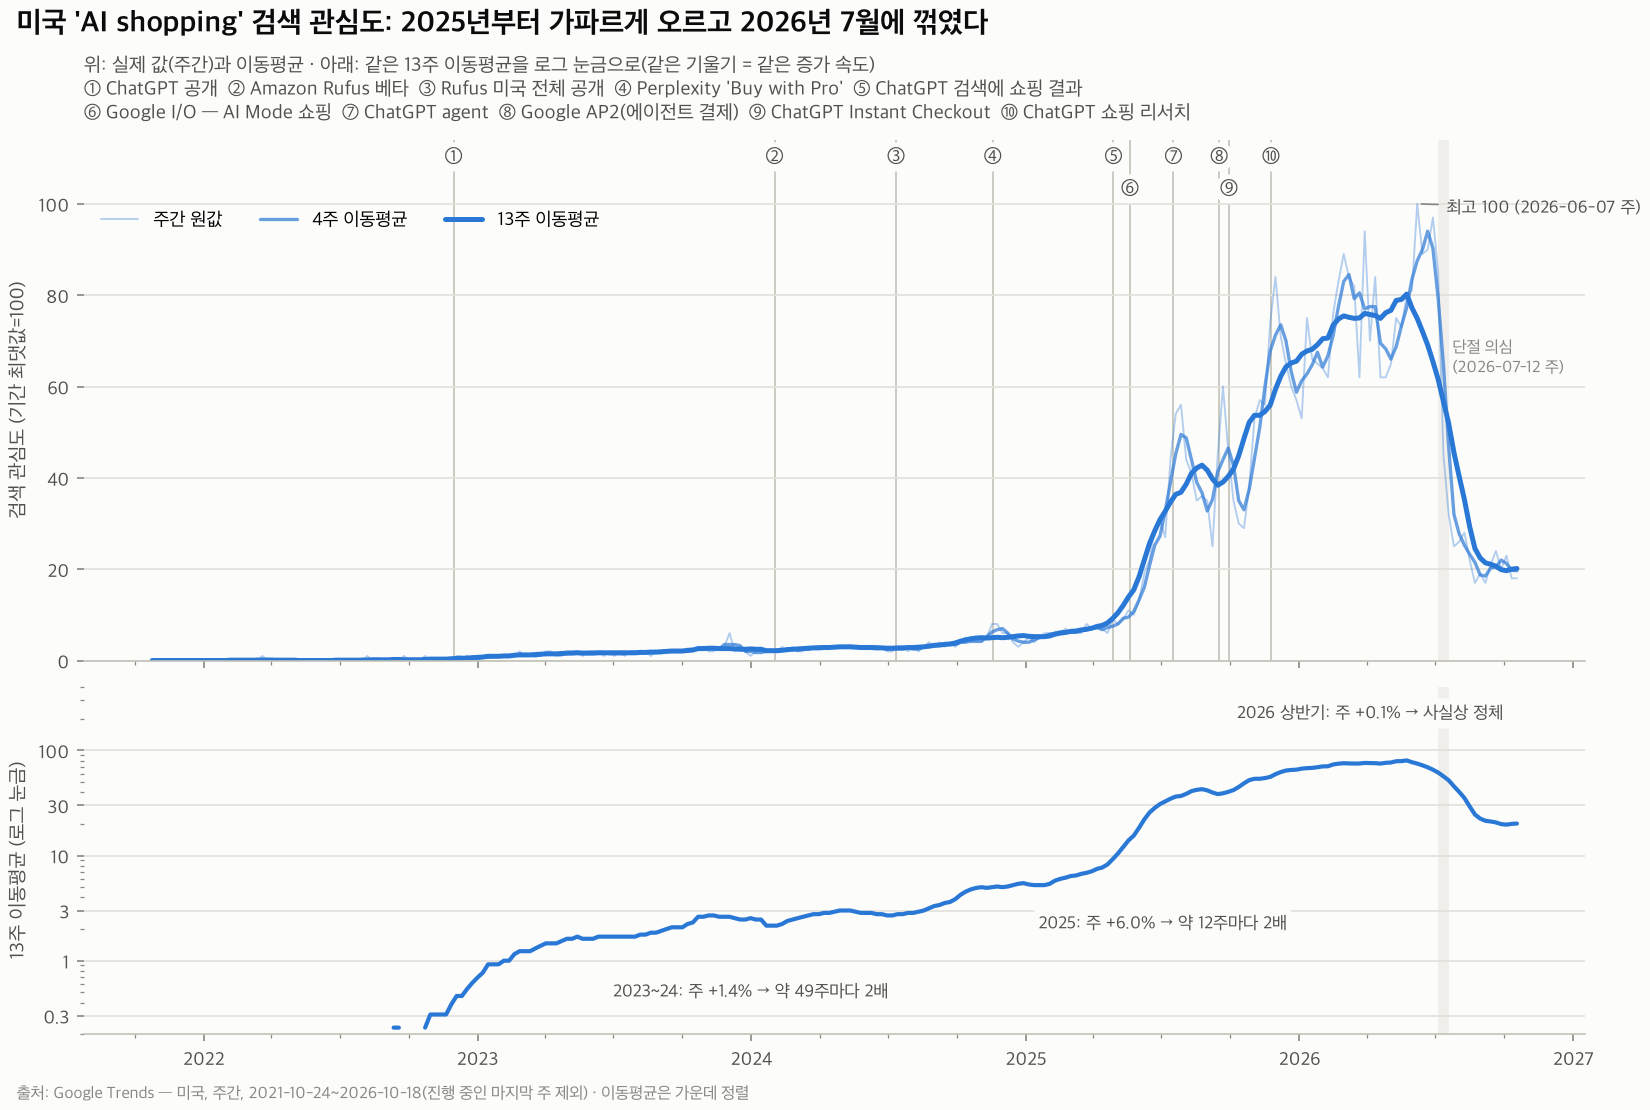
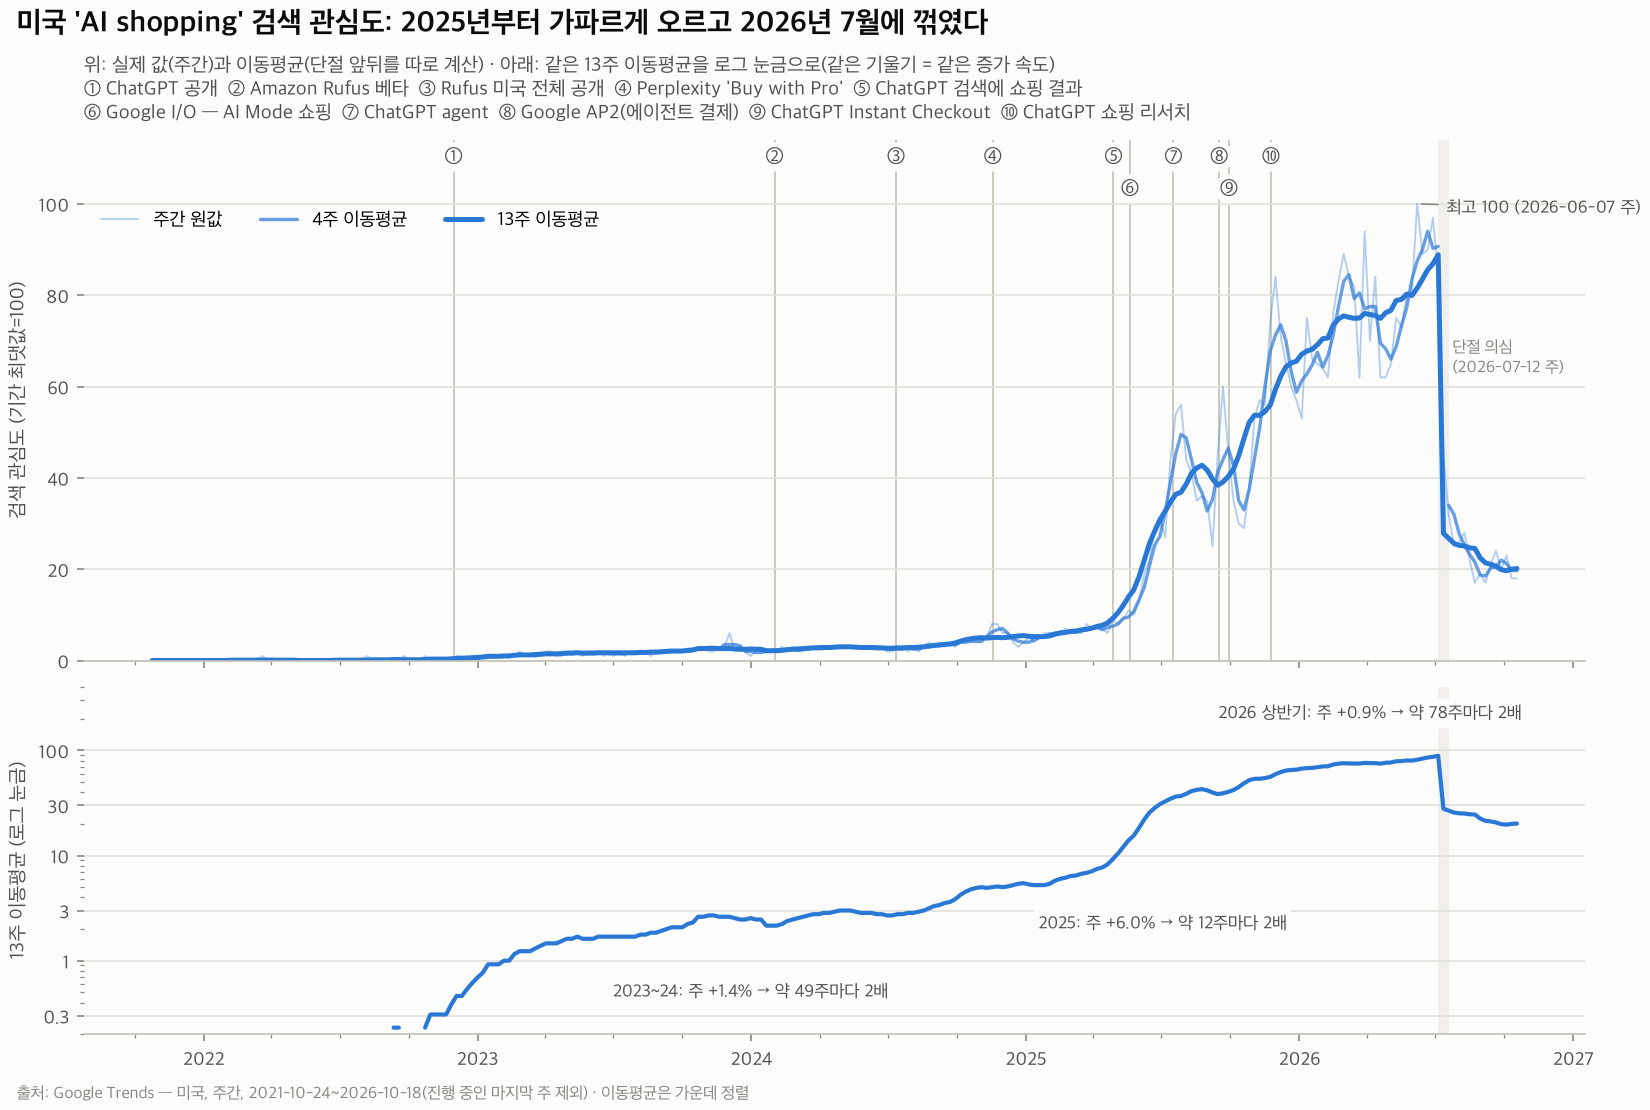
AI_final/mission1: 이동평균을 구조 단절 앞뒤 구간별로 계산 — 2026 상반기 '정체(주 +0.1%)'는 단절 후 값이 섞인 착시, '둔화(주 +0.9%)'로 정정, 그림 1·4·7·REPORT·문서 갱신

diff --git a/AI_final/mission1/analysis.py b/AI_final/mission1/analysis.py
@@ -140,6 +140,12 @@ def end_label(ax, x, y, text, dy=0):
                 color=INK["secondary"], va="center")
 
 
+def rolling_by_segment(x, window, **kw):
+    """이동평균이 구조 단절(2026-07-12 주)을 넘지 않게 앞뒤 구간을 따로 계산한다.
+    가운데 정렬 창이 단절을 넘으면 단절 전 몇 주에 단절 후의 낮은 값이 섞여 추세가 왜곡된다."""
+    return pd.concat([part.rolling(window, **kw).mean() for part in (x[:PRE_LAST], x[BREAK_WEEK:])])
+
+
 def event_key(events, per_line=5):
     items = [f"{CIRCLED[i]} {name}" for i, (_, name) in enumerate(events)]
     return "\n".join("  ".join(items[i:i + per_line]) for i in range(0, len(items), per_line))
@@ -196,8 +202,8 @@ def load_all():
 def build_features(us: pd.DataFrame) -> pd.DataFrame:
     s = us[MAIN]
     f = pd.DataFrame({MAIN: s})
-    f["ma4"] = s.rolling(4, center=True, min_periods=3).mean()     # 한 달 흐름(가운데 정렬)
-    f["ma13"] = s.rolling(13, center=True, min_periods=7).mean()   # 한 분기 흐름(가운데 정렬)
+    f["ma4"] = rolling_by_segment(s, 4, center=True, min_periods=3)     # 한 달 흐름(가운데 정렬)
+    f["ma13"] = rolling_by_segment(s, 13, center=True, min_periods=7)   # 한 분기 흐름(가운데 정렬)
     prev = s.shift(1)
     # 0 은 '검색량이 임계값 미만' 이라 변화율의 분모로 쓰지 않는다(분모 5 이상만 계산).
     f["wow_pct"] = np.where(prev >= 5, (s / prev - 1) * 100, np.nan)
@@ -260,7 +266,7 @@ def black_friday_table(series: dict) -> pd.DataFrame:
 
 
 def takeoff(s: pd.Series, level: float):
-    ma = s.rolling(4, center=True, min_periods=3).mean()   # 그림 07 과 같은 이동평균
+    ma = rolling_by_segment(s, 4, center=True, min_periods=3)   # 그림 07 과 같은 이동평균
     hit = ma[ma >= level]
     return hit.index[0] if len(hit) else None
 
@@ -344,7 +350,7 @@ def fig01_trend(f, numbers):
                  bbox=dict(boxstyle="round,pad=0.25", fc=INK["surface"], ec="none"))
     date_axis(ax2)
     finish(fig, ax1, "미국 'AI shopping' 검색 관심도: 2025년부터 가파르게 오르고 2026년 7월에 꺾였다",
-           "위: 실제 값(주간)과 이동평균 · 아래: 같은 13주 이동평균을 로그 눈금으로(같은 기울기 = 같은 증가 속도)\n" + event_key(EVENTS_US),
+           "위: 실제 값(주간)과 이동평균(단절 앞뒤를 따로 계산) · 아래: 같은 13주 이동평균을 로그 눈금으로(같은 기울기 = 같은 증가 속도)\n" + event_key(EVENTS_US),
            "출처: Google Trends — 미국, 주간, 2021-10-24~2026-10-18(진행 중인 마지막 주 제외) · 이동평균은 가운데 정렬",
            "01_trend_moving_average.png")
 
@@ -414,7 +420,7 @@ def fig03_spikes(f, us):
 
 def fig04_keywords(us):
     cols = list(us.columns)
-    ma = us.rolling(4, center=True, min_periods=3).mean()["2023-01-01":]
+    ma = rolling_by_segment(us, 4, center=True, min_periods=3)["2023-01-01":]
     fig, (ax1, ax2) = new_fig(2, 1, height=7.4, gridspec_kw={"height_ratios": [3, 2]})
     for i, c in enumerate(cols):
         ax1.plot(ma.index, ma[c], color=SERIES[i], lw=2.2 if c == MAIN else 1.6, label=c)
@@ -539,8 +545,8 @@ def fig06_daily(daily, numbers):
 
 
 def fig07_us_kr(us, kr, numbers):
-    a = us[MAIN].rolling(4, center=True, min_periods=3).mean()["2024-01-01":]
-    b = kr[KR].rolling(4, center=True, min_periods=3).mean()["2024-01-01":]
+    a = rolling_by_segment(us[MAIN], 4, center=True, min_periods=3)["2024-01-01":]
+    b = rolling_by_segment(kr[KR], 4, center=True, min_periods=3)["2024-01-01":]
     fig, ax = new_fig(1, 1, height=5.4)
     ax.plot(a.index, a, color=SERIES[0], lw=2.2, label="미국 'AI shopping'")
     ax.plot(b.index, b, color=SERIES[1], lw=2.2, label="한국 'AI 쇼핑'")

diff --git a/AI_final/mission1/REPORT.md b/AI_final/mission1/REPORT.md
@@ -1,7 +1,7 @@
 # AI 쇼핑 관심도 시계열 분석 리포트 — Google Trends 2021-10 ~ 2026-10
 
 > **요약**
-> - 미국 'AI shopping' 검색 관심은 2023~24년 주 +1.4%로 천천히 늘다가, 2025년에 주 +6.0%(약 12주마다 2배)로 급증했다. 2026년 상반기에는 증가가 멈췄다(주 +0.1%).
+> - 미국 'AI shopping' 검색 관심은 2023~24년 주 +1.4%로 천천히 늘다가, 2025년에 주 +6.0%(약 12주마다 2배)로 급증했다. 2026년 상반기에는 증가 속도가 주 +0.9%로 크게 느려졌다.
 > - 급등한 주는 AI 쇼핑 기능 발표 직후(ChatGPT agent, ChatGPT 쇼핑 리서치 등)와 블랙프라이데이 주에 몰려 있다. 블랙프라이데이 주에는 직전 4주 평균의 1.2~1.5배가 되는데, 일반 온라인 쇼핑과 비슷한 크기다.
 > - 2026-07-12 주에 −74% 급락했다. 하지만 대형 검색어와 독립 측정(위키백과 조회수)에는 같은 하락이 없어서, 실제 관심 감소보다 측정 쪽 변화일 가능성이 크다고 판단했다.
 > - 한국 'AI 쇼핑'은 미국보다 약 20주 늦게 올라섰고, 국내 플랫폼의 AI 쇼핑 기능 출시 시점에 맞춰 움직였다.
@@ -90,7 +90,7 @@
 | 대상 | 기준 | 처리 |
 |---|---|---|
 | 급등 주 | 직전 8주 중앙값 대비 로그 비율의 로버스트 z 점수(중앙값·MAD 기준) ≥ 2.5이고 값 ≥ 5 | **삭제하지 않고 표시**(10주). 급등은 분석 대상인 '사건'이다. 추세는 이동평균으로 노이즈를 걸러 본다 |
-| 구조 단절(2026-07-12 주, AI 관련 검색어가 한꺼번에 반토막) | 이상치 한 점이 아니라 수준 자체가 이동한 것 | **보정·삭제하지 않고 구간을 나눔**. 추세·분해·예측 검증은 2026-07-05 주까지만 쓴다. 급락 전후 비교에서는 전환 주를 뺀다. 원인 검증은 Q4에서 한다 |
+| 구조 단절(2026-07-12 주, AI 관련 검색어가 한꺼번에 반토막) | 이상치 한 점이 아니라 수준 자체가 이동한 것 | **보정·삭제하지 않고 구간을 나눔**. 추세·분해·예측 검증은 2026-07-05 주까지만 쓰고, 이동평균도 단절을 넘지 않게 앞뒤를 따로 계산한다. 급락 전후 비교에서는 전환 주를 뺀다. 원인 검증은 Q4에서 한다 |
 
 ### 4-4. 집계 단위 · 스케일 선택 근거
 
@@ -104,7 +104,7 @@
 
 | 기법 | 어떻게 | 왜 | 그림·표 |
 |---|---|---|---|
-| 이동평균 | 4주·13주, 가운데 정렬(그림), 직전 N주 후행 평균(대시보드) | 주간 노이즈를 걸러 추세를 보기 위해 | 그림 1 · 4 · 7 |
+| 이동평균 | 4주·13주, 가운데 정렬·단절 앞뒤 구간별(그림), 직전 N주 후행 평균(대시보드) | 주간 노이즈를 걸러 추세를 보기 위해 | 그림 1 · 4 · 7 |
 | 성장 속도(로그 기울기) | 13주 이동평균의 로그에 직선을 맞춰 주간 증가율과 '2배 걸리는 주 수' 계산 | 수준이 크게 다른 시기의 '빠르기'를 비교하기 위해 | 그림 1 |
 | 변화율 | 전주 대비 · 전분기 대비 · 1년 전 같은 구간 대비 | 급등 탐지, 성장률, 계절 기준선 확인 | 그림 2 · 3 · 표 |
 | 구간별 통계 | 5개 구간의 평균·표준편차·변동계수 / 사건 전후 4주 평균 비교 / 블랙프라이데이 주 배수 | 시기별 수준과 사건 효과를 숫자로 비교하기 위해 | 표 6-2 · 6-3 |
@@ -124,11 +124,11 @@
 
 - **관찰**
   - 연평균 'AI shopping' 값은 2022년 0.13, 2023년 1.77, 2024년 3.33, 2025년 29.15, 2026년 1~7월 초 76.6이다. 2024년 → 2025년이 8.8배로 가장 크게 늘었다.
-  - 13주 이동평균의 주간 증가율은 2023~24년 +1.4%(약 49주마다 2배), 2025년 +6.0%(약 12주마다 2배), 2026년 상반기 +0.1%(정체)다.
+  - 13주 이동평균의 주간 증가율은 2023~24년 +1.4%(약 49주마다 2배), 2025년 +6.0%(약 12주마다 2배), 2026년 상반기 +0.9%(약 78주마다 2배)다.
   - 최고점은 2026-06-07 주(100)다. 2026-07-12 주부터 급락했고, 급락 후 14주 평균은 22.1이다.
 - **해석(가설)**
   - 2025년은 '알게 되는' 단계의 폭발적 확산기로 보인다.
-  - 2026년 상반기는 새로 알아보는 사람이 줄어든 포화 단계일 수 있다.
+  - 2026년 상반기는 증가 속도가 2025년의 약 1/6로 줄었다. 새로 알아보는 사람이 줄어 포화에 가까워지는 단계일 수 있다.
 
 ### 그림 2. 분기 평균과 변동성 (Q1)
 
@@ -250,20 +250,20 @@
 
 ## 7. 인사이트
 
-### 인사이트 1. 관심은 2025년에 폭발했고, 2026년 상반기에 정체됐다
+### 인사이트 1. 관심은 2025년에 폭발했고, 2026년 상반기에 둔화됐다
 
 - **관찰(Fact)**
   - 연평균은 2024년 3.3, 2025년 29.2(×8.8), 2026년 1~7월 초 76.6(×2.6)이다.
-  - 주간 증가율은 2023~24년 +1.4%, 2025년 +6.0%, 2026년 상반기 +0.1%다.
+  - 주간 증가율은 2023~24년 +1.4%, 2025년 +6.0%, 2026년 상반기 +0.9%다.
   - 전분기 대비 증가율은 2025 Q3 +203%로 정점을 찍은 뒤 2026 Q2 +8%까지 줄었다(그림 1·2).
 - **원인(Why, 가설)**
   - 표에 정리한 사건 10건 중 6건(⑤~⑩)이 2025-04 ~ 2025-11에 몰려 있다. '처음 들어본 사람'의 검색이 한꺼번에 늘었다는 설명이 자연스럽다.
-  - 2026년 상반기 정체에는 두 가지 가능성이 있다.
+  - 2026년 상반기 둔화에는 두 가지 가능성이 있다.
     - (a) 인지가 퍼질 만큼 퍼져 새로 알아보는 검색이 줄었다(포화).
     - (b) 관심이 일반어 대신 서비스 이름이나 AI 앱 안으로 옮겨 갔다(이동).
   - 같은 기간 'agentic commerce'는 계속 올랐다(2026년 1~7월 초 평균 15.1). '관심 전체가 식었다'는 설명과는 맞지 않는다.
 - **행동(Action)**
-  - 성장 단계는 수준보다 **증가 속도(로그 기울기)**로 판단한다. 수준은 높아도 속도가 0이면 확산기가 끝난 것이다.
+  - 성장 단계는 수준보다 **증가 속도(로그 기울기)**로 판단한다. 수준이 높아도 속도가 크게 떨어지면 확산기가 끝나 가는 신호다.
   - 포화인지 이동인지 가리려면 서비스 이름 검색어와 앱 사용 지표를 같은 기간으로 맞춰 다시 본다.
 
 ### 인사이트 2. 급등은 '범용 AI의 쇼핑 기능 발표 직후'와 '블랙프라이데이'에 온다
@@ -414,7 +414,7 @@
 
 ### 결론
 
-- **Q1(언제·얼마나)**: 2023~24년에 천천히 늘다가 2025년에 약 12주마다 2배씩 폭발했고, 2026년 상반기에 정체됐다. 연평균은 2024년 3.3에서 2026년 1~7월 초 76.6까지 올랐다.
+- **Q1(언제·얼마나)**: 2023~24년에 천천히 늘다가 2025년에 약 12주마다 2배씩 폭발했고, 2026년 상반기에는 약 78주마다 2배 속도로 둔화됐다. 연평균은 2024년 3.3에서 2026년 1~7월 초 76.6까지 올랐다.
 - **Q2(급등 계기)**: 범용 AI의 쇼핑 기능 발표 직후 4주에 +37~+82% 올랐고, 블랙프라이데이 주에는 ×1.2~1.5였다. 앱 안 기능 발표는 검색을 거의 움직이지 않았다.
 - **Q3(관심의 내용)**: 일반어가 중심인 가운데 'agentic commerce'(대신 사 주는 AI) 비중이 0.7%에서 16.4%로 커졌다.
 - **Q4(7월 급락)**: AI·소량 검색어에만 있었고, 대형 검색어와 위키백과 조회수에는 없었다. 관심 감소보다 측정 변화일 가능성이 크지만 원인은 확정하지 못했다.
@@ -449,6 +449,7 @@
 
 - 급락 그림의 첫 제목은 "AI 관련 검색어에만 급락"이었다. 대조군 표에서 비AI 소량 검색어도 −23~−77% 떨어진 것을 확인하고 "AI·쇼핑 소량 검색어에 몰려 있다"로 고쳤다.
 - 예측 그림의 단절 구간에 '가장 나은 방법 = 계절 naive'로 표시돼 있었다. 작년 수준과 우연히 비슷해서 생긴 결과임을 확인하고 그렇게 명시했다.
+- 2026년 상반기를 처음에는 '정체(주 +0.1%)'로 적었다. 대시보드 캡처를 점검하다가, 가운데 정렬 13주 이동평균이 6월 말 근처에서 7월 단절 이후의 낮은 값을 섞어 생긴 착시임을 확인했다. 이동평균을 단절 앞뒤로 나눠 계산하도록 고쳐 '둔화(주 +0.9%)'로 바로잡았다(원값 직선 맞춤도 +1.2%로 같은 결론).
 - STL 기본 설정(robust)에서는 추세가 직선 두 토막으로 나오고, 계절성이 단발 급등을 흡수했다. 설정을 비교한 뒤 '계절 패턴 고정 + 추세 창 53주'로 바꾸고 이유를 적었다.
 - 한국이 '10 첫 도달'에서는 미국보다 9주 **앞서는** 결과가 나왔다. 확인해 보니 K1 직후의 일시적 반짝 때문이었다. 그래서 지속 상승 기준(25)을 쓰고 반짝은 따로 서술했다.
 - 변동성 지표로 처음에는 변동계수(표준편차 ÷ 평균)를 썼다. 그런데 성장기에는 추세 자체가 변동으로 잡혔다. 그래서 주간 로그 변화율의 표준편차로 바꿨다.

diff --git a/AI_final/mission1/실행 로그.md b/AI_final/mission1/실행 로그.md
@@ -100,7 +100,7 @@ $ python analysis.py
 | --- | --- |
 | 최고점 | 2026-06-07 주 = 100 |
 | 연평균 | 2023 1.77 · 2024 3.33 · 2025 29.15 · 2026(1~7월 초) 76.6 · 급락 후 22.1 |
-| 13주 이동평균 주간 증가율 | 2023~24 +1.43%(49주마다 2배) · 2025 +6.03%(11.8주) · 2026 상반기 +0.1% |
+| 13주 이동평균 주간 증가율(단절 앞뒤 구간별) | 2023~24 +1.43%(49주마다 2배) · 2025 +6.03%(11.8주) · 2026 상반기 +0.9%(77.7주) |
 | 4주 이동평균 25 첫 도달 | 미국 2025-06-22 · 한국 2025-11-09(20주 차) |
 | 급락 시점(일간) | 7일 이동평균이 급락 전 평균의 75% 아래 2026-07-13 → 40% 아래 2026-07-23 |
 | STL 변동 비중 | AI shopping 추세 97% · 계절 1% · 나머지 2% / online shopping 56% · 33% · 11% |
@@ -124,6 +124,7 @@ $ python analysis.py
 | 7 | 예측 그림이 단절 구간의 최선을 '계절 naive' 로 표시 | 작년 7~10월 수준이 단절 후 수준과 우연히 비슷 | "우연한 일치" 로 명시 |
 | 8 | 그림의 사건 번호 · 범례 · 라벨 겹침, 요일 막대가 0 이 아닌 80 에서 시작 | 배치 기본값 | 가까운 사건 번호 한 칸 내림 · 범례 위치 이동 · 요일은 "전체 평균 대비 %" 막대(0 기준) |
 | 9 | 대시보드 모바일 캡처가 오른쪽이 잘림 | 헤드리스 Chrome 창이 390px 보다 넓게 잡힘 | 390px 폭 iframe 에 넣어 캡처한 뒤 390px 로 자름 · 좁은 화면에서 날짜 눈금 개수 자동 축소 |
+| 10 | 2026년 상반기 증가 속도가 주 +0.1%(정체)로 나옴 | 가운데 정렬 13주 이동평균이 6월 말 근처에서 7월 단절 이후의 낮은 값을 섞음(인사이트 캡처 점검 중 발견) | 이동평균을 단절 앞뒤로 나눠 계산(`rolling_by_segment`) → 주 +0.9%(둔화). 원값 직선 맞춤 +1.2% 와도 일치 |
 
 ---
 

diff --git a/AI_final/mission1/과제 요약.md b/AI_final/mission1/과제 요약.md
@@ -63,7 +63,7 @@
 
 | 성분 | 뜻 | 이번 데이터에서 |
 | --- | --- | --- |
-| 트렌드(추세) | 장기적으로 오르거나 내리는 방향 | 2023~24년 완만 → 2025년 급증 → 2026년 상반기 정체 |
+| 트렌드(추세) | 장기적으로 오르거나 내리는 방향 | 2023~24년 완만 → 2025년 급증 → 2026년 상반기 둔화 |
 | 계절성 | 해마다(또는 주마다) 같은 시기에 반복되는 오르내림 | 블랙프라이데이가 있는 11월 상승(+23%) · 주말이 평일보다 조금 높음 |
 | 노이즈 | 추세 · 계절성으로 설명되지 않는 나머지 출렁임 | 주 단위의 들쭉날쭉 · 표본 오차(같은 검색어를 다시 받으면 값이 조금 다름) |
 

diff --git a/AI_final/mission1/평가 지침.md b/AI_final/mission1/평가 지침.md
@@ -40,7 +40,7 @@ python build_dashboard.py   # dashboard/index.html
 | 시각화 3개 이상 | 6절 | 그림 9장, 각 그림 아래 **관찰** 과 **해석(가설)** 분리 |
 | 인사이트 3개 이상 | 7절 | 5개 모두 관찰(수치) · 원인(가설 · 반례) · 행동 |
 | 결론 · 한계점 | 9절 | 질문별 답 5개 · 한계 7가지 |
-| AI 사용 로그 | 10절 | 작업 · 이유 · 검증 표 + AI 결과를 고친 사례 5건 |
+| AI 사용 로그 | 10절 | 작업 · 이유 · 검증 표 + AI 결과를 고친 사례 6건 |
 
 ## 4. 대시보드 시연 (보너스)
 
